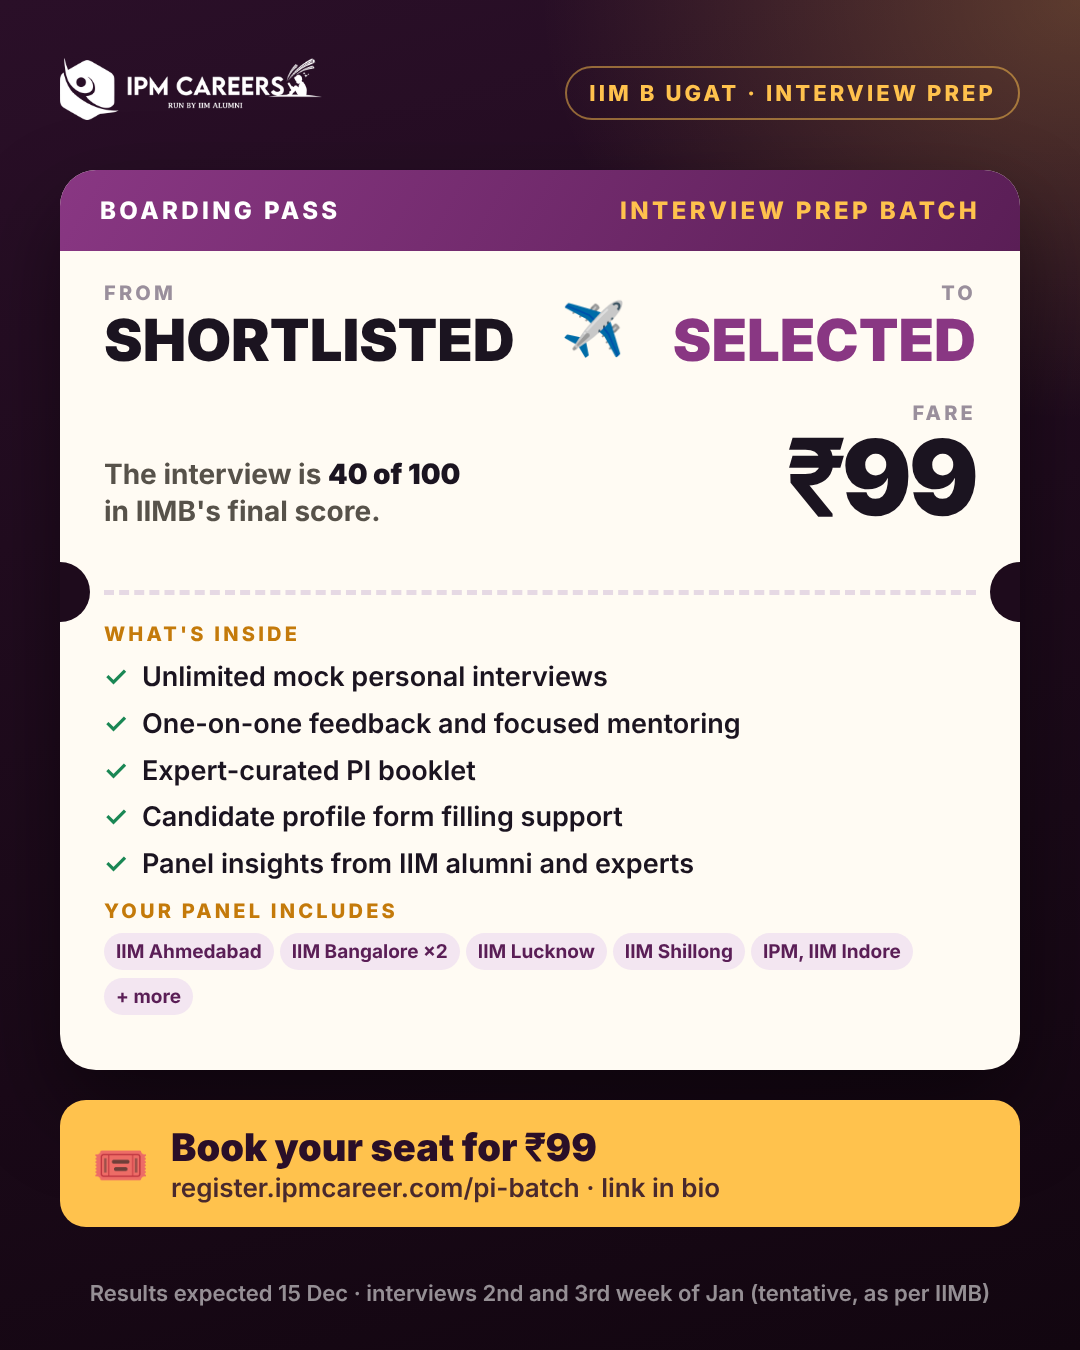
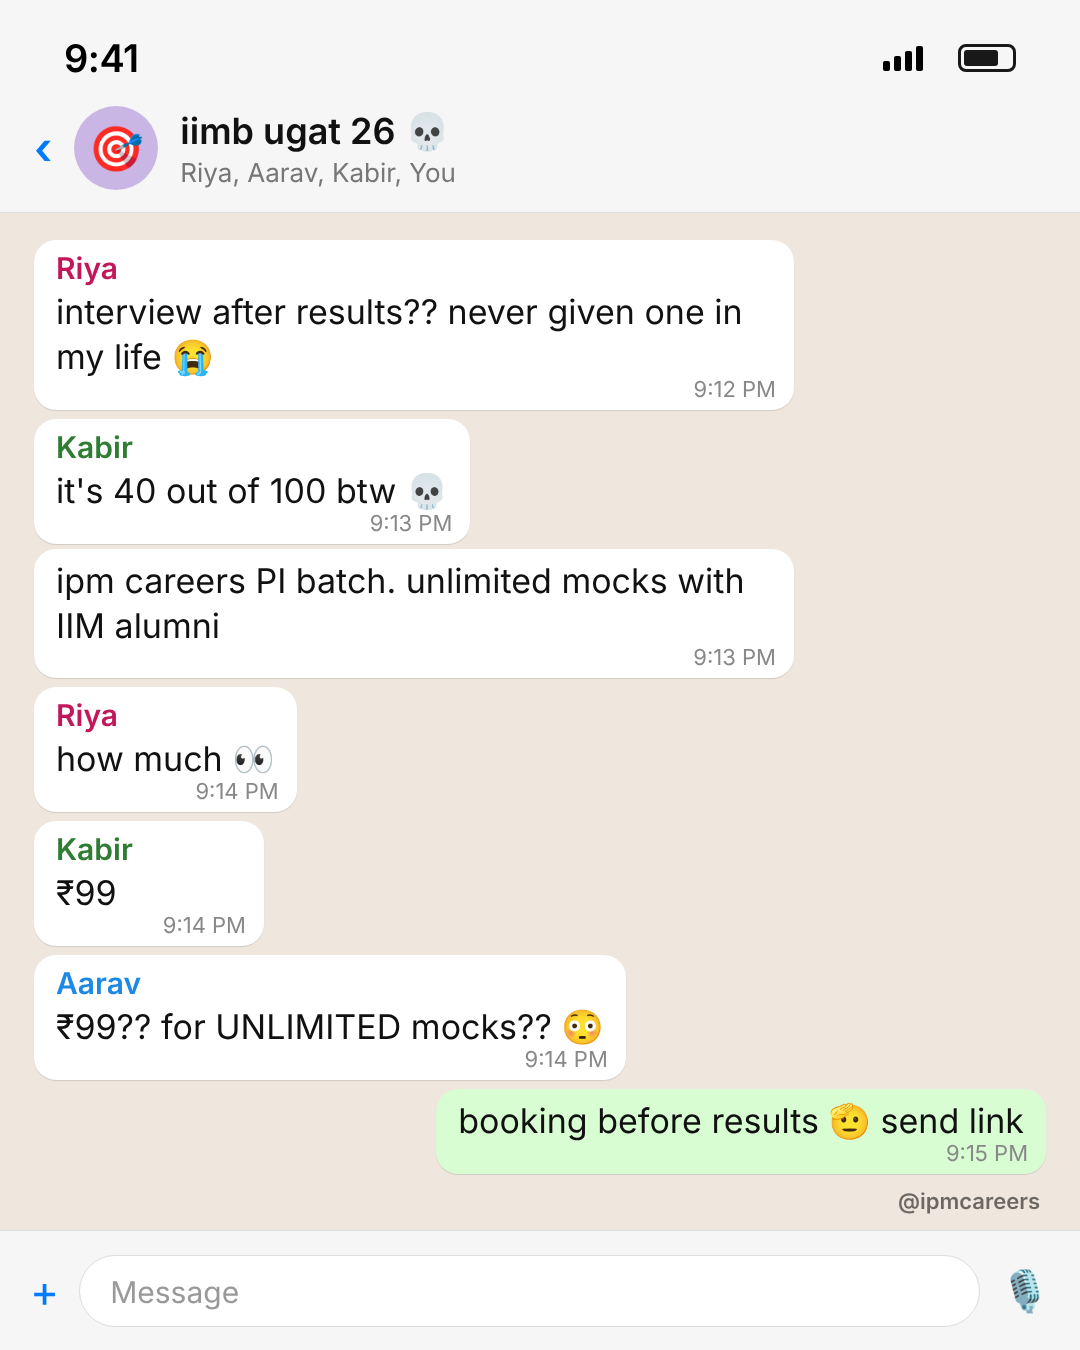
PI campaign redo: launch post as a group-chat screenshot, Interview Simulator as a mentor's notebook page
Claude-Session: https://claude.ai/code/session_017bG5V3fXiwQrWWNcUHjzq8

diff --git a/templates/cards/notebook-story.html b/templates/cards/notebook-story.html
@@ -1,0 +1,36 @@
+<!doctype html><html><head><meta charset="utf-8">
+<!-- Interview Simulator Story as a mentor's notebook page (1080x1920, safe zone y 250-1580). ?d=<json> {n,q,opts,right,why,mode} -->
+<style>
+@font-face { font-family: Hand; src: url(../../public/fonts/shantell-sans.woff2); font-weight: 300 800; }
+@font-face { font-family: Inter; src: url(../../public/fonts/inter.woff2); font-weight: 100 900; }
+*{box-sizing:border-box;margin:0;padding:0}
+html,body{width:1080px;height:1920px;overflow:hidden;background:#C9BFAF}
+.page{position:absolute;left:36px;top:140px;width:1008px;height:1640px;background:#FFFEF8;transform:rotate(-.8deg);box-shadow:0 24px 48px rgba(0,0,0,.25);
+ background-image:repeating-linear-gradient(transparent 0 66px,#B9D3EA 66px 68px);background-position:0 40px}
+.page:before{content:"";position:absolute;left:112px;top:0;bottom:0;width:3px;background:#E9A3A3}
+.holes{position:absolute;left:34px;top:150px;display:flex;flex-direction:column;gap:420px}.holes i{width:36px;height:36px;border-radius:18px;background:#C9BFAF;box-shadow:inset 0 3px 4px rgba(0,0,0,.2)}
+.ink{position:absolute;font-family:Hand;color:#1F3A8A}
+.red{color:#C8312B}
+.hl{background:linear-gradient(transparent 22%,rgba(255,230,80,.8) 22%,rgba(255,230,80,.8) 88%,transparent 88%);padding:0 6px}
+.opt{display:flex;gap:18px;font:500 38px/1.38 Hand;margin-bottom:30px}
+.opt b{flex:0 0 auto;font-weight:800}
+.x{text-decoration:line-through;text-decoration-color:#C8312B;text-decoration-thickness:4px;opacity:.75}
+.ring{position:absolute;border:5px solid #C8312B;border-radius:50%;transform:rotate(-8deg)}
+.sticky{position:absolute;background:#FFE27A;transform:rotate(2.5deg);box-shadow:0 12px 20px rgba(0,0,0,.18);padding:24px 26px;font-family:Hand;color:#3A2A00}
+</style></head><body><div id="s"></div>
+<script>
+const d=JSON.parse(decodeURIComponent(new URLSearchParams(location.search).get("d"))), R=d.mode==="reveal";
+document.getElementById("s").innerHTML=`<div class="page"><div class="holes"><i></i><i></i><i></i></div>
+ <div class="ink" style="left:150px;top:118px;font-size:30px;color:#6B6660">IIM B interview practice · Q${d.n}</div>
+ <div class="ink" style="left:150px;top:190px;width:800px;font:800 66px/1.15 Hand;transform:rotate(-1deg)">Panel: <span class="hl">"${d.q}"</span></div>
+ <div class="ink red" style="left:150px;top:370px;font:700 36px Hand">${R?"✔ the one that works:":"which opener works best? 🤔"}</div>
+ <div class="ink" style="left:150px;right:70px;top:450px">
+  ${d.opts.map((o,i)=>`<div class="opt"><b>${"ABC"[i]})</b><span class="${R&&i!==d.right?"x":""}">${o}</span></div>`).join("")}
+ </div>
+ ${R?`<div class="ring" style="left:128px;top:${d.ringTop}px;width:96px;height:80px"></div>
+  <div class="ink red" style="left:150px;right:70px;top:${d.whyTop}px;font:600 34px/1.45 Hand">${d.why.map(w=>"→ "+w).join("<br>")}</div>`
+  :`<div class="ink red" style="left:150px;top:${d.voteTop}px;font:700 34px Hand;transform:rotate(-2deg)">vote below 👇 answer tonight at 8</div>`}
+ <div class="sticky" style="right:50px;top:1350px;width:380px"><div style="font:800 30px/1.2 Hand">Practise this with IIM alumni</div><div style="font:500 25px/1.3 Hand;margin-top:8px">Unlimited mock interviews<br><b>PI batch · ₹99</b></div></div>
+ <div class="ink" style="left:150px;top:1500px;font:500 26px Hand;color:#6B6660">@ipmcareers</div>
+</div>`;
+</script></body></html>

diff --git a/templates/cards/real.html b/templates/cards/real.html
@@ -34,6 +34,12 @@ html,body{width:1080px;height:1350px;overflow:hidden;font-family:-apple-system,I
 .m b{display:block;font:600 30px Inter;margin-bottom:4px}
 .m em{position:absolute;right:18px;bottom:8px;font:400 22px Inter;color:#888;font-style:normal}
 .me{margin-left:auto;background:#D9FDD3}
+.chat.pi .m{font-size:34px;padding:10px 22px 30px;margin:9px 0;width:fit-content;min-width:230px}
+#s{height:100%}
+.chat.pi .me{margin-left:auto}
+.chat.pi .cont{margin-top:-4px}
+.bar{position:absolute;left:0;right:0;bottom:0;height:120px;background:#F6F6F6;border-top:1px solid #ddd;display:flex;align-items:center;gap:20px;padding:0 30px}
+.bar .in{flex:1;height:72px;border-radius:36px;background:#fff;border:1px solid #ddd;font:400 30px/72px Inter;color:#999;padding:0 30px}
 .day{margin:22px auto;width:max-content;background:#fff;color:#555;font:500 26px Inter;padding:8px 22px;border-radius:14px;box-shadow:0 1px 1px rgba(0,0,0,.1)}
 </style></head><body><div id="s"></div>
 <script>
@@ -63,6 +69,16 @@ chat:()=>`<div class="chat"><div class="hd">${sb("#000")}<div class="h2"><span s
  <div class="m"><b style="color:#2E7D32">Kabir</b>i'm on mock 3 already don't tell anyone<em>8:03 AM</em></div>
  <div class="m me">reinstalled the app at 7 am 🫡<em>8:04 AM</em></div>
  </div><div class="mark" style="color:#000;right:auto;left:40px">@ipmcareers</div></div>`,
+pi:()=>`<div class="chat pi"><div class="hd">${sb("#000")}<div class="h2"><span style="color:#007AFF;font-size:44px">‹</span><div class="av">🎯</div><div>iimb ugat 26 💀<small>Riya, Aarav, Kabir, You</small></div></div></div>
+ <div class="msgs">
+ <div class="m"><b style="color:#C2185B">Riya</b>interview after results?? never given one in my life 😭<em>9:12 PM</em></div>
+ <div class="m"><b style="color:#2E7D32">Kabir</b>it's 40 out of 100 btw 💀<em>9:13 PM</em></div>
+ <div class="m cont">ipm careers PI batch. unlimited mocks with IIM alumni<em>9:13 PM</em></div>
+ <div class="m"><b style="color:#C2185B">Riya</b>how much 👀<em>9:14 PM</em></div>
+ <div class="m"><b style="color:#2E7D32">Kabir</b>₹99<em>9:14 PM</em></div>
+ <div class="m"><b style="color:#1E88E5">Aarav</b>₹99?? for UNLIMITED mocks?? 😳<em>9:14 PM</em></div>
+ <div class="m me">booking before results 🫡 send link<em>9:15 PM</em></div>
+ </div><div class="bar"><span style="font-size:44px;color:#007AFF">+</span><div class="in">Message</div><span style="font-size:40px">🎙</span></div><div class="mark" style="color:#000;right:40px;bottom:136px">@ipmcareers</div></div>`,
 };
 document.getElementById("s").innerHTML=V[c]();
 </script></body></html>
